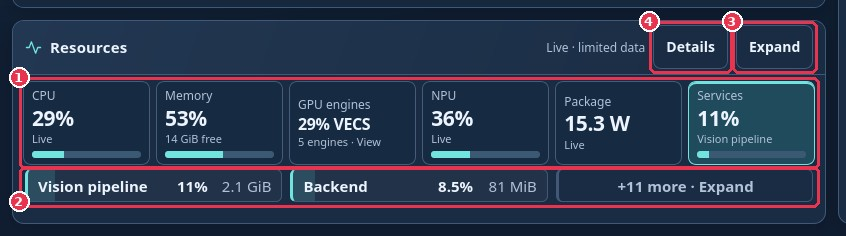
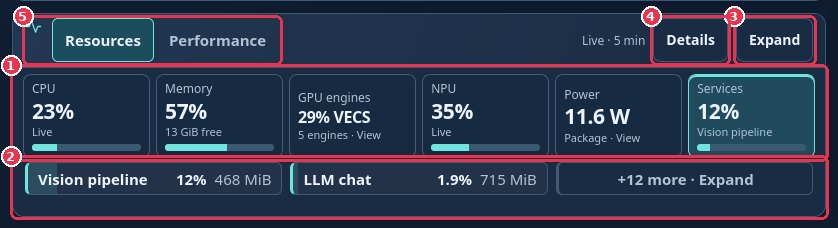
Document the Performance view with live screenshots
Add a Performance screenshot with numbered callouts to the operator guide
and README, refresh the Resources screenshot (now with the view switch),
list Performance in the README and docs index features, and link the guide
from the benchmarks page. Captured from a running demo-up stack with real
traffic. The camera tile now says 'All cameras keeping up' rather than
claiming no dropped frames while a camera skips under the 10% limit.

diff --git a/handheld-multi-modal/backend/app/static/index.html b/handheld-multi-modal/backend/app/static/index.html
@@ -4167,7 +4167,7 @@ function renderPerformance() {
     {id: "cameras", label: "Smooth cameras",
       value: cameras.running ? `${cameras.smooth} of ${cameras.running}` : "—",
       detail: worst ? cameraLabel(worst[0]) + ": " + worst[1].reason
-        : cameras.running ? "No dropped frames or delay" : "No camera is sending frames",
+        : cameras.running ? "All cameras keeping up" : "No camera is sending frames",
       title: "Smooth: no more than 10% of frames skipped, keeping up with the camera, detection delay under 400 ms."},
     decodeValue != null
       ? {id: "speed", label: "Answer speed", value: (chatSpeed.state === "stale" ? "◷ " : "") + decodeValue.toFixed(1) + " tokens/\u2060s",

diff --git a/handheld-multi-modal/docs/user-guide/operator-guide.md b/handheld-multi-modal/docs/user-guide/operator-guide.md
@@ -367,44 +367,55 @@ vehicles move, because an object counts by where its feet or wheels touch the gr
    do not add them together or treat them as wall power.
 3. **Expand** - show a larger chart.
 4. **Details** - show the raw readings.
+5. **Resources | Performance** - switch to the [Performance](#performance) view.
 
 ### Performance
 
-Tap **Performance** in the Resources heading to switch views. Tap **Resources** to switch
-back. The tiles describe what the console measured over the last 5 minutes; they do not grade
-it against a target.
+![Performance](_assets/guide-performance.jpg)
 
-1. **Time to alert** - how quickly an alert is raised after an object first appears in the
-   camera image.
-2. **Spoken answer** - from the end of your spoken question to the first sound of the answer.
-   Only voice questions asked with **Audio on** are counted.
-3. **Smooth cameras** - cameras that keep up with their frame rate without skipping frames or
-   detecting late. The table below the tiles shows frames per second, skipped frames, and
-   detection time for each camera.
-4. **Answer speed** - approximate words per second while the answer is written (**~** means
-   approximate). It shows exact tokens per second once Chat Q&A reports them.
-5. **Peak memory** - the highest host memory use.
+The Performance view describes what the console measured over the last 5 minutes. It does not
+grade the values against targets.
 
-Each tile shows the typical value: half of the measurements are at or below it. Until there
-are at least five measurements the value reads **—**: the line below it says what to do
-(for example **Ask by voice with Audio on**) or **Not enough data yet** with the count so
-far. Tap a tile to see what it
-measures, the value that 95% of measurements are at or below, and, for **Spoken answer**,
-the typical time of each stage. Tap it again to hide the explanation.
+1. **Resources | Performance** - switch between the two views.
+2. **Tiles** - one number per question an operator asks about speed:
+   - **Time to alert** - how quickly an alert is raised after an object first appears in the
+     camera image.
+   - **Spoken answer** - from the end of your spoken question to the first sound of the
+     answer. Only voice questions asked with **Audio on** are counted.
+   - **Smooth cameras** - cameras that keep up with their frame rate without skipping
+     frames or detecting late.
+   - **Answer speed** - approximate words per second while the answer is written (**~**
+     means approximate). It shows exact tokens per second once Chat Q&A reports them.
+   - **Peak memory** - the highest host memory use.
 
-**Services** shows one tile each for Chat Q&A, Audio Analyzer (speech to text), and Text To
-Speech: how soon the first words appear, how much faster than real time speech is
-transcribed, and how soon a spoken answer is ready. The console measures these itself, so
-they include any time spent waiting for the service. A service tile reads **Not available yet** until the
-console has timed a request, and **Not enough data yet** for the first few. Open **Details**
-for the typical and 95% values and, once a service reports its own measurements, a **Reported by** line with
-them (since that service started).
+   Each tile shows the typical value: half of the measurements are at or below it. Until
+   there are at least five measurements the value reads **—**, and the line below it says
+   what to do (for example **Ask by voice with Audio on**) or shows **Not enough data yet**
+   with the count so far.
+3. **Explanation** - tap a tile to see what it measures, the value that 95% of measurements
+   are at or below, and, for **Spoken answer**, the typical time of each stage. Tap the tile
+   again to hide it.
+4. **Services** - one tile each for Chat Q&A, Audio Analyzer (speech to text), and Text To
+   Speech: how soon the first words appear, how much faster than real time speech is
+   transcribed, and how soon a spoken answer is ready. The console measures these itself, so
+   they include any time spent waiting for the service. A tile reads **Not available yet**
+   until the console has timed a request, and **Not enough data yet** for the first few.
+   Open **Details** for the typical and 95% values and, once a service reports its own
+   measurements, a **Reported by** line with them (since that service started).
+5. **Cameras** - frames per second (processed / camera), skipped frames, and detection time
+   for each camera over the last 30 seconds. **Health** reads **Smooth**, **Dropping
+   frames** (more than 10% skipped), **Delayed** (detection over 400 ms), **Measuring**, or
+   **Offline**.
 
-The live video badge shows detection time and frames per second for the selected camera. After a
-spoken answer, a line under the assistant such as **Answered aloud in 2.4 s** shows the time
-to the first sound; open it to see the listening, hearing, thinking, and speaking stages. For alerts raised as soon as
-an object appears, the alert latency chip tooltip starts with the time to alert; rules that
-wait (dwell) or a later zone entry do not show it.
+The same measurements appear where you are already looking:
+
+- **Video badge** - detection time and frames per second for the selected camera, such as
+  **Detect 120 ms · 29.8/30 fps**. It starts with the reason when a camera is not smooth.
+- **Under the answer** - after a spoken answer, **Answered aloud in 2.4 s** shows the time to
+  the first sound; open it to see the listening, hearing, thinking, and speaking stages. Typed
+  questions show **First words in 640 ms**.
+- **Alert latency chip** - for alerts raised as soon as an object appears, the tooltip starts
+  with the time to alert. Rules that wait (dwell) or a later zone entry do not show it.
 
 ## Voice Questions and Spoken Answers
 

diff --git a/handheld-multi-modal/README.md b/handheld-multi-modal/README.md
@@ -28,6 +28,12 @@ computing platform, which enables hardware acceleration capabilities. See
   `make speech-device TTS_DEVICE=GPU` to switch).
 - **Voice**: push-to-talk questions transcribed by Whisper-medium (GPU).
 - **Resources**: CPU, memory, GPU, NPU, and power telemetry.
+- **Performance**: time to alert, time to spoken answer, smooth cameras, answer speed, and peak
+  memory, plus speed tiles for Chat Q&A, Audio Analyzer, and Text To Speech, measured on the
+  device. See the [Operator Guide](docs/user-guide/operator-guide.md#performance) and the
+  [Performance KPI Plan](docs/user-guide/benchmarking/handheld-performance-kpi-plan.md).
+
+![Performance view: time to alert, spoken answer, smooth cameras, answer speed and peak memory tiles, service tiles for Chat Q&A, Audio Analyzer and Text To Speech, and per-camera frame rates](docs/user-guide/_assets/guide-performance.jpg)
 
 ## Project Structure
 

diff --git a/handheld-multi-modal/docs/user-guide/benchmarks.md b/handheld-multi-modal/docs/user-guide/benchmarks.md
@@ -18,7 +18,8 @@ cameras, approximate answer speed, and peak memory over the last 5 minutes, plus
 each for Chat Q&A, Audio Analyzer, and Text To Speech. It describes the values without
 grading them against targets. See the
 [Performance KPI Plan](./benchmarking/handheld-performance-kpi-plan.md) for definitions,
-the implemented measurements, and the upstream service requests.
+the implemented measurements, and the upstream service requests, and the
+[Operator Guide](operator-guide.md#performance) for how to read the view.
 
 <!--hide_directive
 :::{toctree}

diff --git a/handheld-multi-modal/docs/user-guide/index.md b/handheld-multi-modal/docs/user-guide/index.md
@@ -62,6 +62,9 @@ Follow these steps to deploy the Handheld (Soldier System) Blueprint:
   the Alert Agent and spoken by SpeechT5.
 - **Voice** — push-to-talk questions transcribed by Whisper-medium (GPU) and spoken answers.
 - **Resources** — CPU, memory, GPU, NPU, power, and per-service telemetry.
+- **Performance** — time to alert, time to spoken answer, smooth cameras, answer speed, and
+  peak memory, plus speed tiles for Chat Q&A, Audio Analyzer, and Text To Speech, measured on
+  the device over the last 5 minutes.
 
 ## Architecture
 
